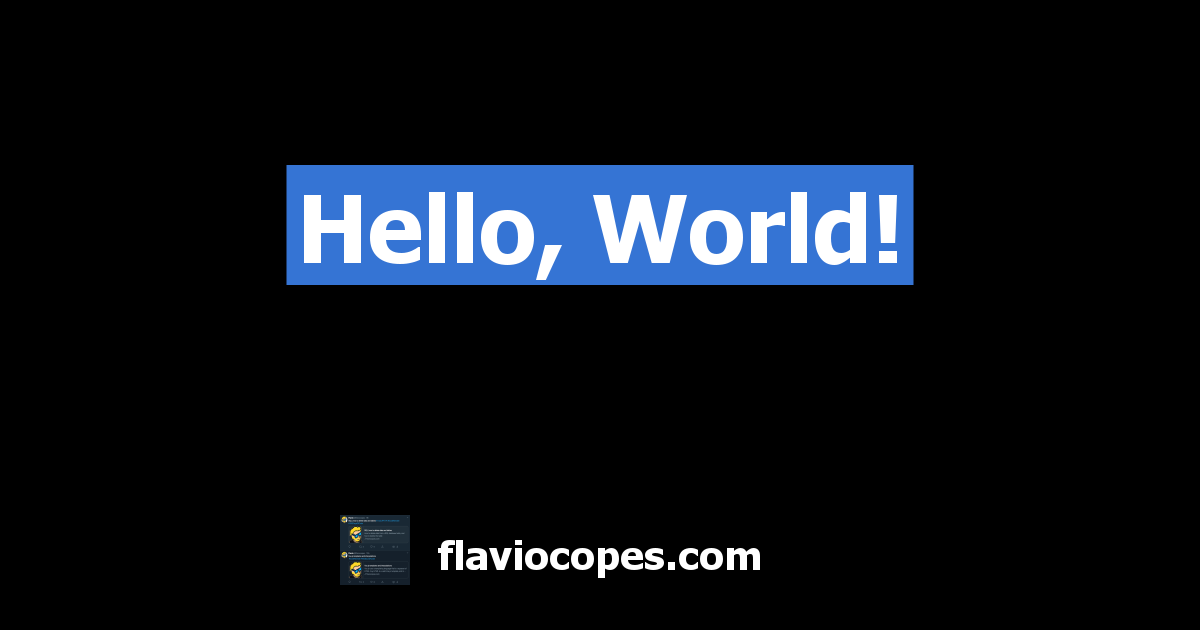
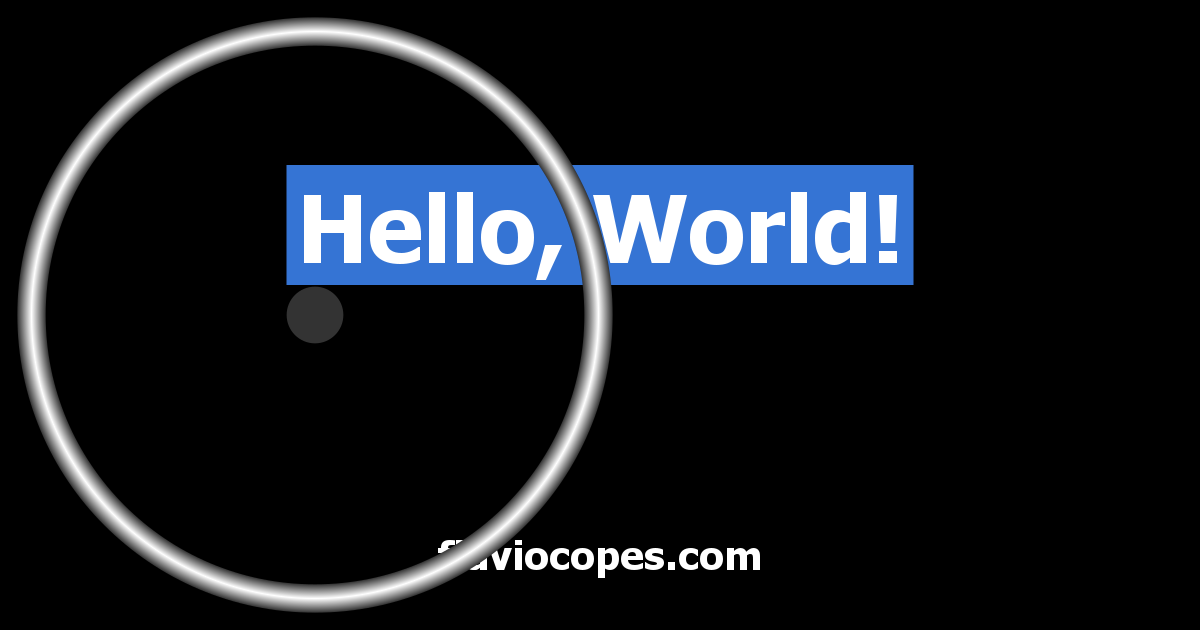
58*

Changed region(s): [[0.0, 0.0302, 0.5242, 0.9952], [0.2158, 0.4524, 0.3083, 0.5429]]

diff --git a/i/58/i.js b/i/58/i.js
@@ -26,8 +26,33 @@ context.fillStyle = '#fff'
 context.font = 'bold 30pt Menlo'
 context.fillText('flaviocopes.com', 600, 530)
 
+var radius =  height / 2;
+context.translate(radius, radius);
+radius = radius * 0.90
+drawFace(context, radius);
+
 loadImage('./logo.png').then(image => {
   context.drawImage(image, 340, 515, 70, 70)
   const buffer = canvas.toBuffer('image/png')
   fs.writeFileSync('./test.png', buffer)
 })
+
+
+function drawFace(ctx, radius) {
+    var grad;
+    ctx.beginPath();
+    ctx.arc(0, 0, radius, 0, 2*Math.PI);
+    ctx.fillStyle = 'white';
+ //   ctx.fill();
+    grad = ctx.createRadialGradient(0,0,radius*0.95, 0,0,radius*1.05);
+    grad.addColorStop(0, '#333');
+    grad.addColorStop(0.5, 'white');
+    grad.addColorStop(1, '#333');
+    ctx.strokeStyle = grad;
+    ctx.lineWidth = radius*0.1;
+    ctx.stroke();
+    ctx.beginPath();
+    ctx.arc(0, 0, radius*0.1, 0, 2*Math.PI);
+    ctx.fillStyle = '#333';
+    ctx.fill();
+  }
